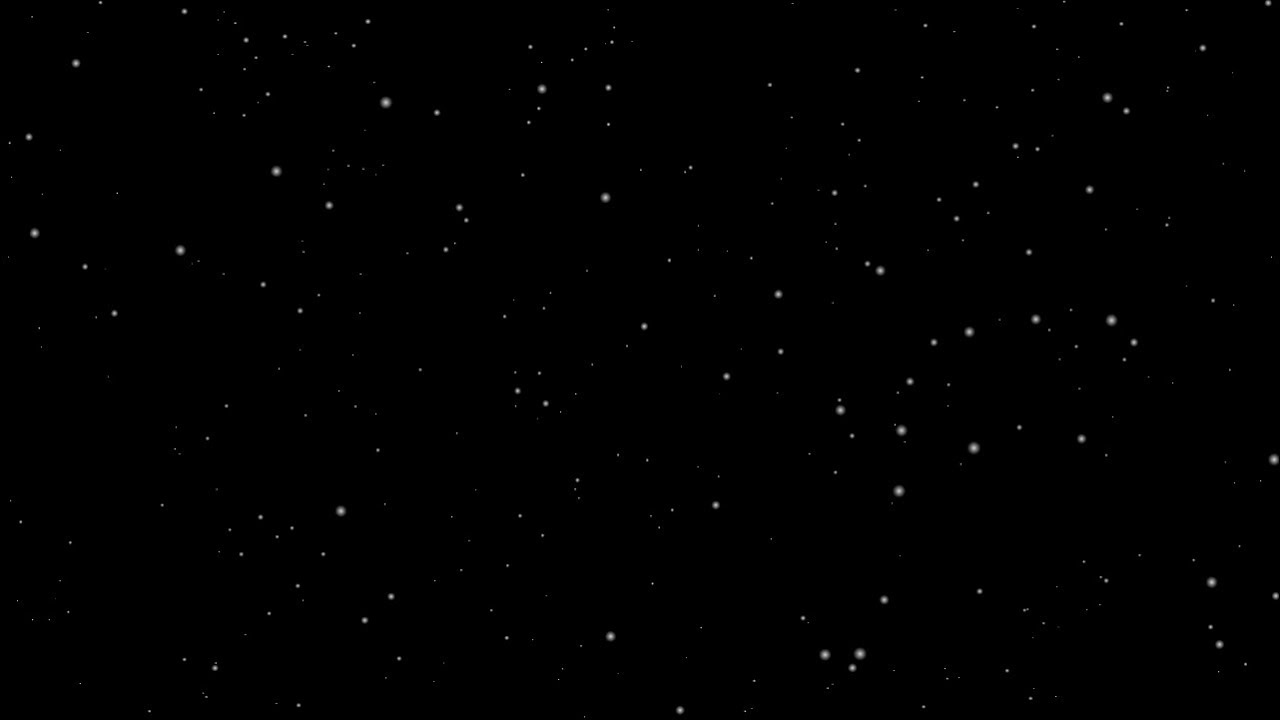
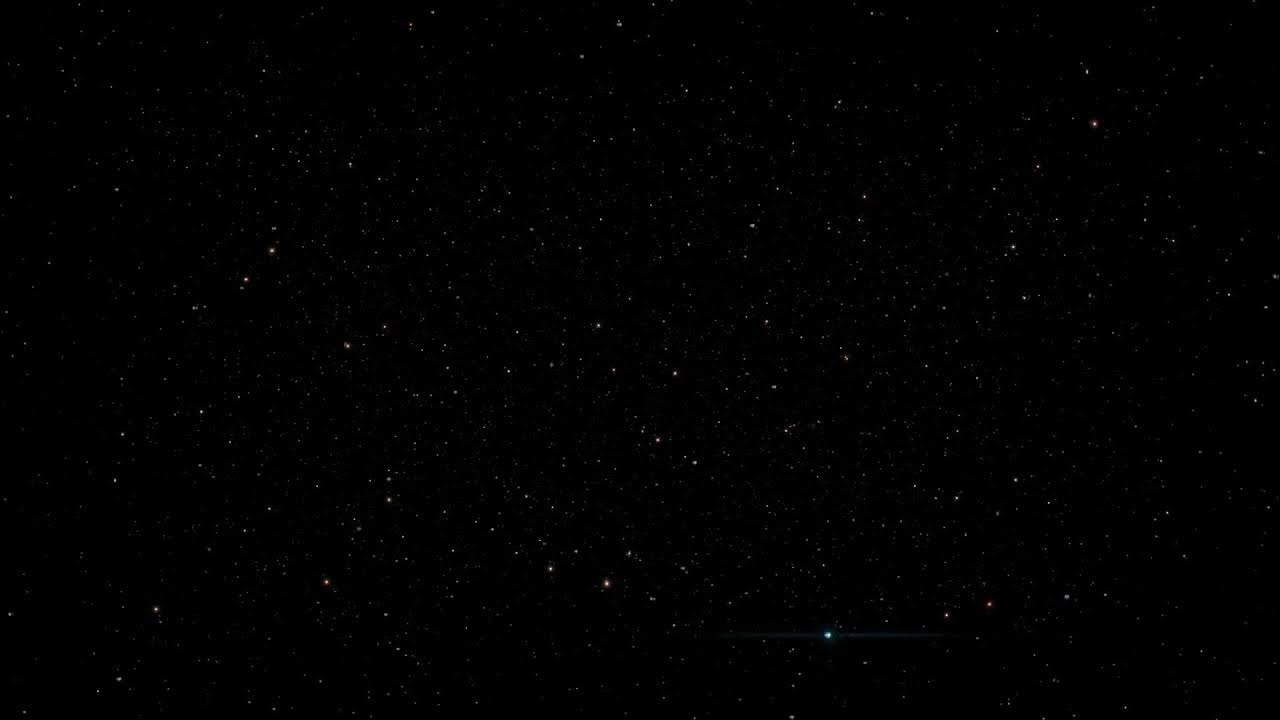
create animation background

diff --git a/src/App.css b/src/App.css
@@ -12,7 +12,8 @@
 }
 body {
     background-image: url('./public/zvezda.jpg');
-    animation-name: backgound;
-    animation-duration: infinite;
-    animation-direction: reverse;
+    animation: fon linear  ;
+    background-repeat: repeat-x;
+    animation-duration: 30s;
+    animation-iteration-count: infinite;
 }

diff --git a/src/Animation.css b/src/Animation.css
@@ -1,0 +1,9 @@
+@keyframes fon{
+    0%{
+         background-position: 100% 0;
+    }
+   
+    100%{
+         background-position: 0 0;
+    }
+}

diff --git a/src/App.tsx b/src/App.tsx
@@ -1,5 +1,5 @@
 import './App.css'
-
+import './Animation.css'
 function App() {
 
   return (
